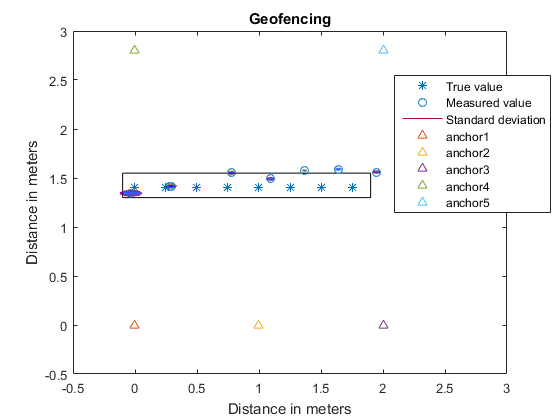
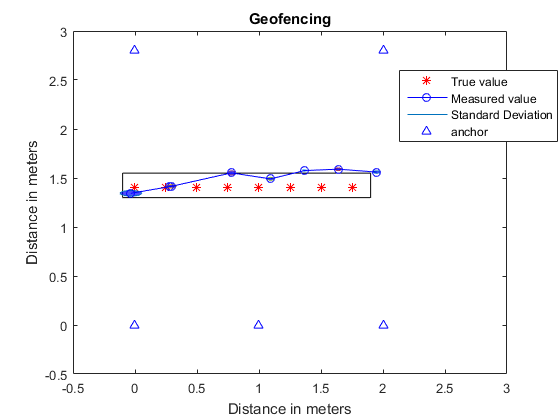
Fixed anchor colors and connected true values

diff --git a/same_height.m b/same_height.m
@@ -1,6 +1,6 @@
 %Ground truth
 for v = 0.22:0.29:2.25
-    a1=plot(v,0.55,'*');
+    a1=plot(v,0.55,'r*');
     hold on
 end
 
@@ -15,29 +15,29 @@ end
 %Plot the buffer (+-10cm) for decawave
 rectangle('Position',[0.12 0.45 2.5 0.20]);
 %Anchor Positions  for square geometry
-%anchor1=plot(0,0,'^');
-%anchor2=plot(0,1.1,'^');
-%anchor3=plot(2.33,1.11,'^');
-%anchor4=plot(2.33,0,'^');
+%x_anch=[0,0,2.33,2.33];
+%y_anch=[0,1.11,1.11,0];
+%anch=plot(x_anch,y_anch,'b^');
+
 
 %Anchor Positions  for Triangle geometry
-anchor1=plot(0,0,'^');
-anchor2=plot(1.143,0,'^');
-anchor3=plot(2.33,0,'^');
-anchor4=plot(1.143,1.168,'^');
+%x_anch=[0,1.143,2.33,1.143];
+%y_anch=[0,0,0,1.168];
+%anch=plot(x_anch,y_anch,'^');
+
 
 %Anchor Positions on one side data(Slide 11)
-%anchor1=plot(0,0,'^');
-%anchor2=plot(0.9,0,'^');
-%anchor3=plot(2.33,0,'^');
-%anchor4=plot(1.8,-0.3,'^');
+%x_anch=[0,0.9,2.33,1.8];
+%y_anch=[0,0,0,-0.3];
+%anch=plot(x_anch,y_anch,'^');
 
 
 %Anchor position for anchors on one side with two anchors further away Slide 13
-%anchor1=plot(0,0,'^');
-%anchor2=plot(0.9,-0.3,'^');
-%anchor3=plot(2.33,0,'^');
-%anchor4=plot(1.8,-0.3,'^');
+x_anch=[0,0.5,2.33,1.8];
+y_anch=[0,-0.3,0,-0.3];
+anch=plot(x_anch,y_anch,'^');
+
+
 
 
 %All values below are measured values from decawave
@@ -45,13 +45,13 @@ anchor4=plot(1.143,1.168,'^');
 %x=[0.20,0.45,0.84,1.12,1.48,1.70,2.0,2.35];%Effect of anchor height(Slide 7) 2nd plot data
 %y=[0.56,0.60,0.53,0.57,0.57,0.43,0.42,0.53];
 
-%x=[0.22,0.53,0.82,1.08,1.39,1.72,2.07,2.50];;%Square geometry data(Slide 9)
+%x=[0.22,0.53,0.82,1.08,1.39,1.72,2.07,2.50];%Square geometry data(Slide 9)
 %y=[0.55,0.53,0.56,0.56,0.57,0.68,0.72,0.77];
 %x_std=[0.025,0.024,0.022,0.022,0.025,0.013,0.022,0.038];
 %y_std=[0.016,0.015,0.010,0.009,0.013,0.019,0.026,0.291];
 
-x1=[0.22,0.53,0.82,1.08,1.39,1.72,2.07,2.50];%Tringle geometry data(Slide 10)
-y1=[0.55,0.53,0.56,0.56,0.57,0.62,0.65,0.57];
+%x1=[0.22,0.53,0.82,1.08,1.39,1.72,2.07,2.50];%Tringle geometry data(Slide 10)
+%y1=[0.55,0.53,0.56,0.56,0.57,0.62,0.65,0.57];
 %x1_std=[0.028,0.012,0.010,0.021,0.010,0.011,0.017,0.024];
 %y1_std=[0.018,0.012,0.025,0.046,0.032,0.026,0.015,0.013];
 
@@ -61,11 +61,11 @@ y1=[0.55,0.53,0.56,0.56,0.57,0.62,0.65,0.57];
 %x3_std=[0.013,0.011,0.015,0.017,0.016,0.011,0.012,0.020];%Std. deviation for slide 11 exp
 %y3_std=[0.059,0.049,0.073,0.062,0.041,0.036,0.040,0.046];
 
-%x4=[0.23,0.55,0.79,1.12,1.39,1.65,1.93,2.25];%All anchors on one side with two anchors further away Slide 13
-%y4=[0.38,0.40,0.46,0.49,0.43,0.37,0.38,0.28];
+x4=[0.23,0.55,0.79,1.12,1.39,1.65,1.93,2.25];%All anchors on one side with two anchors further away Slide 13
+y4=[0.38,0.40,0.46,0.49,0.43,0.37,0.38,0.28];
 
-%x4_std=[0.021,0.016,0.023,0.031,0.014,0.027,0.022,0.018];%Std. deviation for slide 13 exp
-%y4_std=[0.043,0.041,0.042,0.046,0.030,0.042,0.070,0.075];
+x4_std=[0.021,0.016,0.023,0.031,0.014,0.027,0.022,0.018];%Std. deviation for slide 13 exp
+y4_std=[0.043,0.041,0.042,0.046,0.030,0.042,0.070,0.075];
 
 %Plot the std. Deviation for all data points
 for i = 1:1:8
@@ -85,12 +85,12 @@ for i = 1:1:8
 end
 
 
-a4=plot(x1,y1,'o');
+a4=plot(x4,y4,'b-o');
 xlim([-.5,3]);
 ylim([-.5,2]);
 %axis([0 3 0 1.1]);
-legend([a1,a4,anchor1,anchor2,anchor3,anchor4],'True value','Measured value',',anchor1','anchor2','anchor3','anchor4');
-title('Tringle Geometry');
+legend([a1,a4,anch],'True value','Measured value','anchor');
+title('One Side Geometry');
 xlabel('Distance in meters');
 ylabel('Distance in meters');
 

diff --git a/geofencing.m b/geofencing.m
@@ -1,22 +1,19 @@
 x=[0,0.25,0.5,0.75,1,1.25,1.5,1.75];%Ground truth
 y=[1.4,1.4,1.4,1.4,1.4,1.4,1.4,1.4,];
-ans1=plot(x,y,'*');
+ans1=plot(x,y,'r*');
 hold on
 
 %Anchor position for geo_1
-%anchor1=plot(0,0,'^');
-%anchor2=plot(1,0,'^');
-%anchor3=plot(2,0,'^');
-%anchor4=plot(0,2.8,'^');
-%anchor5=plot(2,2.8,'^');
+%x_anch=[0,1,2,0,2];
+%y_anch=[0,0,0,2.8,2.8];
+%anch=plot(x_anch,y_anch,'b^');
 
 %Anchor position for geo_2
-anchor1=plot(0,0,'^');
-anchor2=plot(1,0,'^');
-anchor3=plot(2,0,'^');
-anchor4=plot(0,2.8,'^');
-anchor5=plot(2,2.8,'^');
-anchor6=plot(1,0.7,'^');
+x_anch=[0,1,2,0,2,1];
+y_anch=[0,0,0,2.8,2.8,0.7];
+anch=plot(x_anch,y_anch,'b^');
+
+
 %Plot the buffer (+-10cm) for decawave
 rectangle('Position',[-0.10 1.3 2 0.25]);
 
@@ -48,10 +45,10 @@ for i = 1:1:8
 end
 
 
-ans2=plot(x_geo2,y_geo2,'o');
-%ans3=plot(x_geo2,y_geo2,'o');
+ans2=plot(x_geo2,y_geo2,'b-o');
+%ans3=plot(x_geo2,y_geo2,'b-o');
 axis([-0.5 3 -0.5 3]);
-legend([ans1,ans2,a5,anchor1,anchor2,anchor3,anchor4,anchor5,anchor6],'True value','Measured value','Standard Deviation','anchor1','anchor2','anchor3','anchor4','anchor5','anchor6');
+legend([ans1,ans2,a5,anch],'True value','Measured value','Standard Deviation','anchor');
 title('Geofencing');
 xlabel('Distance in meters');
 ylabel('Distance in meters');
